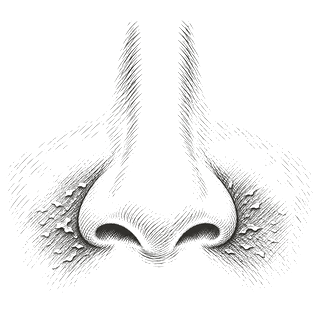
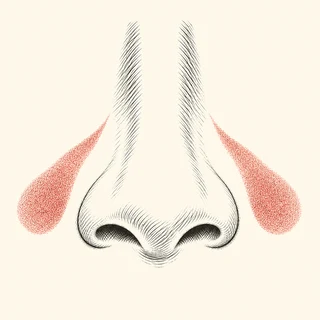
Refine red patch illustration

Changed region(s): [[0.0312, 0.0625, 0.9688, 0.875]]

diff --git a/index.html b/index.html
@@ -48,7 +48,7 @@
           <p>Cooking oil can develop a rancid smell as it breaks down. This can cause foul body odour.</p>
         </article>
         <article>
-          <img class="panel-art" src="assets/scaly-skin.webp" width="320" height="320" alt="" loading="lazy">
+          <img class="panel-art" src="assets/scaly-skin.webp" width="320" height="320" alt="Red teardrop-shaped patches angled outward on both sides of the lower nose bridge" loading="lazy">
           <h3>Inflamed, scaly skin</h3>
           <p>Flaky, red patches on either side of the nose can be caused by dietary vegetable oils. Many people also get the same flaky, red skin on the forehead, and on the sternum.</p>
         </article>
